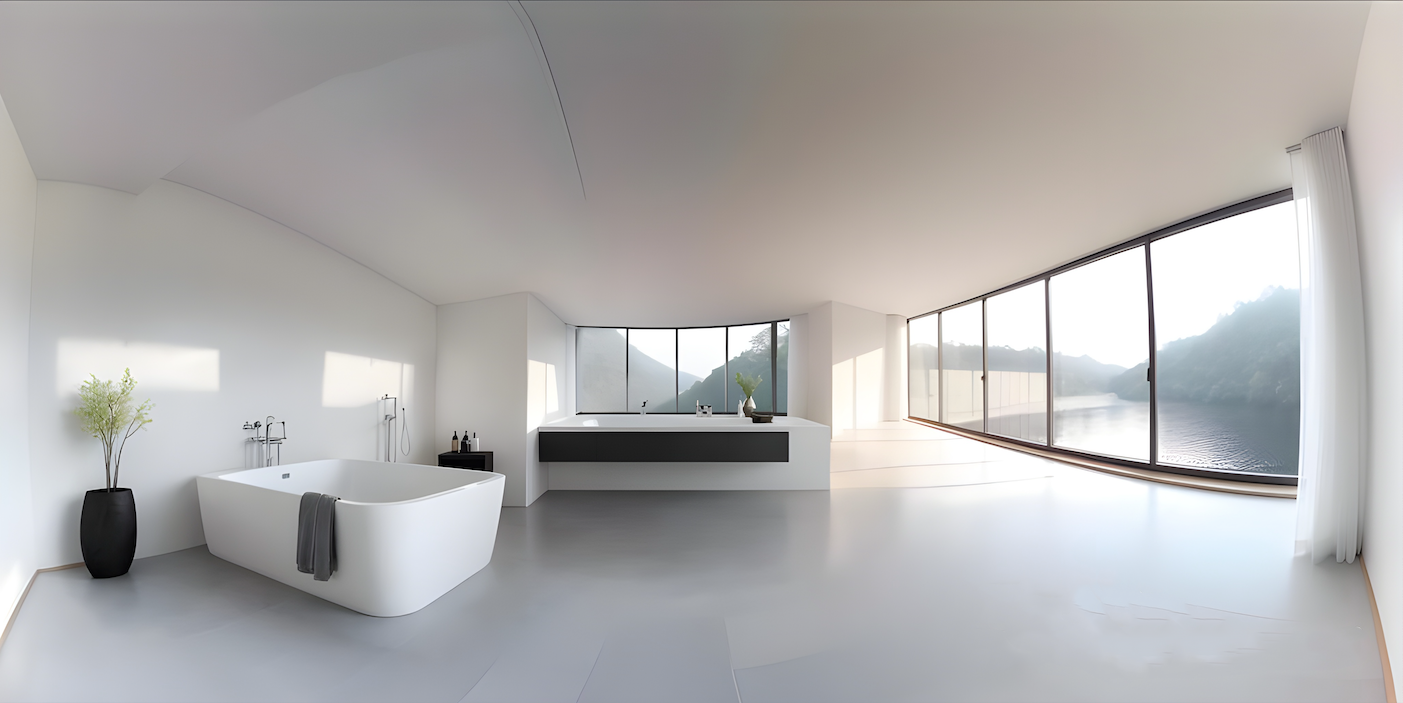
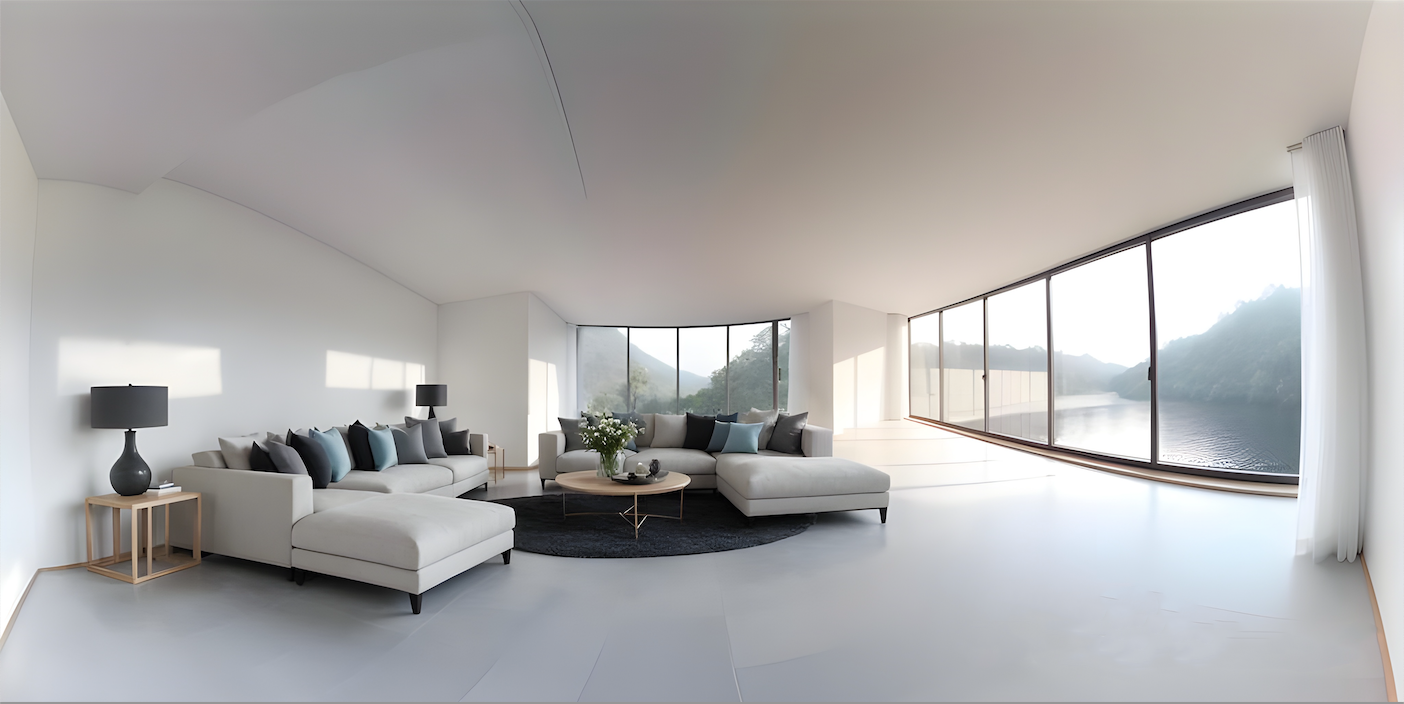
Full scene

diff --git a/index.html b/index.html
@@ -38,7 +38,7 @@
         let camera, scene, renderer, sphere, clock;
         let scenesData;
         let currentScene = 0;
-        const originalTextures = {};
+        const textures = {};
 
         init();
 
@@ -91,7 +91,6 @@
             if (renderer.xr.isPresenting === false) {
                 const time = clock.getElapsedTime();
                 sphere.rotation.y += 0.0015;
-                //sphere.position.x = Math.sin(time) * 0.2;
                 sphere.position.y = Math.cos(time) * 0.25;
             }
             renderer.render(scene, camera);
@@ -104,7 +103,6 @@
                     scenesData = data;
                     console.log(scenesData);
                     populateImageList(scenesData.scenes);
-                    // Automatically load the first scene
                     if (scenesData.scenes.length > 0) {
                         changeScene(0);
                     }
@@ -132,54 +130,72 @@
                 texture.generateMipmaps = false;
                 sphere.material.map = texture;
                 sphere.material.needsUpdate = true;
+
+                // Save the original texture
+                textures[currentScene] = {
+                    original: texture,
+                    current: texture,
+                    removeFurniture: null,
+                    redesign: null,
+                };
+
+                loadAdditionalTextures(currentScene);
             });
         }
 
+        function loadAdditionalTextures(sceneIndex) {
+            const sceneData = scenesData.scenes[sceneIndex];
+            const loader = new THREE.TextureLoader();
+
+            if (sceneData.remove_furniture) {
+                loader.load(sceneData.remove_furniture, (texture) => {
+                    texture.colorSpace = THREE.SRGBColorSpace;
+                    texture.minFilter = THREE.NearestFilter;
+                    texture.generateMipmaps = false;
+                    textures[sceneIndex].removeFurniture = texture;
+                });
+            }
+
+            if (sceneData.redesign) {
+                loader.load(sceneData.redesign, (texture) => {
+                    texture.colorSpace = THREE.SRGBColorSpace;
+                    texture.minFilter = THREE.NearestFilter;
+                    texture.generateMipmaps = false;
+                    textures[sceneIndex].redesign = texture;
+                });
+            }
+        }
+
         function handleRemoveFurnitureButtonClick() {
-            const currentSceneData = scenesData.scenes[currentScene];
-            if (currentSceneData.remove_furniture) {
-                toggleTexture(currentSceneData.remove_furniture);
+            const sceneTextures = textures[currentScene];
+            if (sceneTextures && sceneTextures.removeFurniture) {
+                toggleTexture('removeFurniture');
             } else {
-                console.error('No remove_furniture link found for the current scene');
+                console.error('No remove_furniture texture found for the current scene');
             }
         }
 
         function handleRedesignButtonClick() {
-            const currentSceneData = scenesData.scenes[currentScene];
-            if (currentSceneData.redesign) {
-                toggleTexture(currentSceneData.redesign);
+            const sceneTextures = textures[currentScene];
+            if (sceneTextures && sceneTextures.redesign) {
+                toggleTexture('redesign');
             } else {
-                console.error('No redesign link found for the current scene');
+                console.error('No redesign texture found for the current scene');
             }
         }
 
-        function toggleTexture(texturePath) {
-            const currentMaterial = sphere.material;
-            const currentTexture = currentMaterial.map;
+        function toggleTexture(type) {
+            const sceneTextures = textures[currentScene];
+            if (!sceneTextures) return;
 
-            if (!originalTextures[currentScene]) {
-                originalTextures[currentScene] = currentTexture;
-                changeTexture(texturePath);
+            if (sceneTextures.current === sceneTextures.original) {
+                sphere.material.map = sceneTextures[type];
+                sceneTextures.current = sceneTextures[type];
             } else {
-                sphere.material.map = originalTextures[currentScene];
-                sphere.material.needsUpdate = true;
-                delete originalTextures[currentScene];
+                sphere.material.map = sceneTextures.original;
+                sceneTextures.current = sceneTextures.original;
             }
-        }
-
-        function changeTexture(texturePath) {
-            const textureLoader = new THREE.TextureLoader();
-            textureLoader.load(
-                texturePath,
-                (texture) => {
-                    sphere.material.map = texture;
-                    sphere.material.needsUpdate = true;
-                },
-                undefined,
-                (err) => {
-                    console.error(`Error loading texture: ${texturePath}`, err);
-                }
-            );
+            sphere.material.needsUpdate = true;
         }
     </script>
     <script src="index.js"></script>
